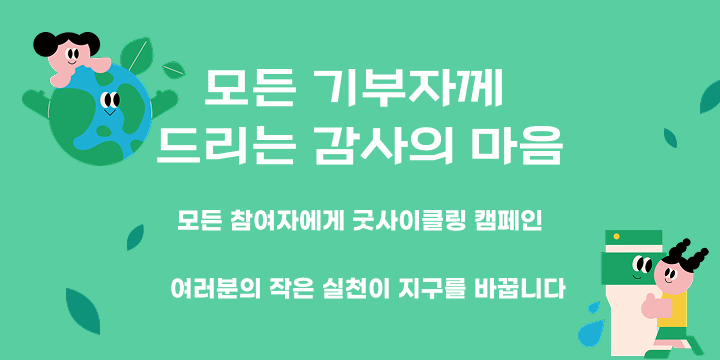
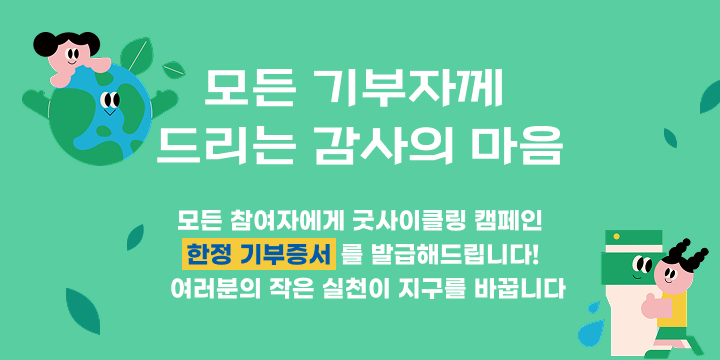
feat: 이미지 및 CSS 수정 - 섹션 8의 이미지 파일 변경 및 폰트 크기 및 간격 조정

Changed region(s): [[0.2444, 0.6417, 0.7639, 0.7639]]

diff --git a/styles/style_m.scss b/styles/style_m.scss
@@ -1610,7 +1610,7 @@ body {
               color: #000;
               text-align: center;
               font-family: Pretendard;
-              font-size: 11px;
+              font-size: 10px;
               font-weight: 700;
               line-height: 130%;
             }

diff --git a/styles/style.scss b/styles/style.scss
@@ -1385,7 +1385,7 @@ body {
         margin-top: 24px;
         .item {
           display: flex;
-          gap: 30px;
+          gap: 22px;
           .icon {
             display: flex;
             align-items: center;

diff --git a/styles/style_m.css b/styles/style_m.css
@@ -2159,7 +2159,7 @@ body {
   color: #000;
   text-align: center;
   font-family: Pretendard;
-  font-size: 11px;
+  font-size: 10px;
   font-weight: 700;
   line-height: 130%;
 }

diff --git a/styles/style.css b/styles/style.css
@@ -1888,7 +1888,7 @@ body {
   display: -webkit-box;
   display: -ms-flexbox;
   display: flex;
-  gap: 30px;
+  gap: 22px;
 }
 
 .section_10 .content .left .list .item .icon {
